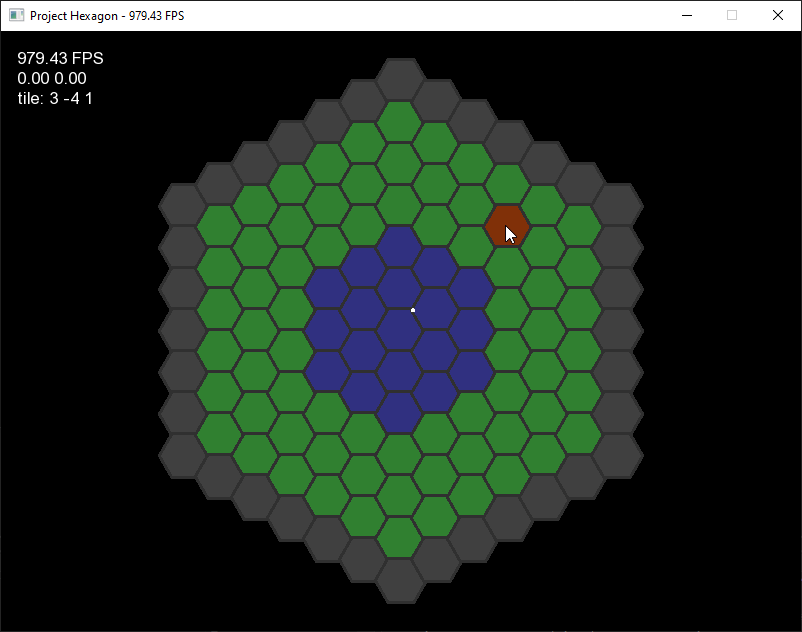
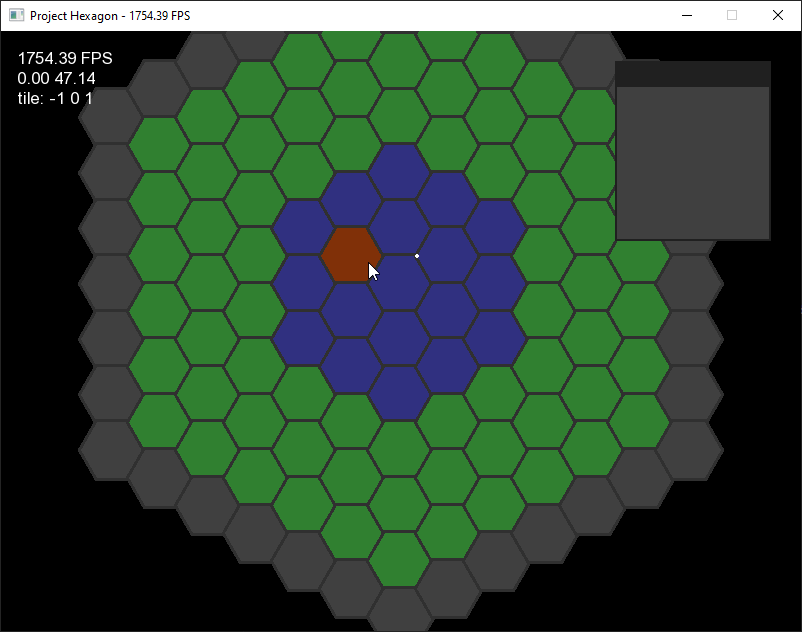
added palette

diff --git a/Project-Hexagon/palette.hpp b/Project-Hexagon/palette.hpp
@@ -1,0 +1,108 @@
+#ifndef palette_hpp
+#define palette_hpp
+
+enum class ButtonState { Idle, Hover, Pressed };
+
+
+class Palette : public ElementGUI {
+public:
+	sf::Vector2f bar_size;
+	sf::Vector2f size;
+	sf::Vector2f position;
+
+	sf::RectangleShape bar_rect;	// top bar rect
+	sf::RectangleShape rect;		// bottom big rect
+
+	short margin = 8;
+
+	sf::Vector2f offset;
+	bool is_moved;
+
+
+	Palette() : ElementGUI() {
+
+		sf::Vector2i tiles(2, 2);
+
+		bar_size = sf::Vector2f(tiles.x * 64 + (tiles.x + 1) * margin, 24);
+		size = sf::Vector2f(tiles.x * 64 + (tiles.x + 1) * margin, tiles.y * 64 + (tiles.y + 1) * margin);
+
+		bar_rect = sf::RectangleShape(bar_size);
+		bar_rect.setFillColor(sf::Color(32, 32, 32));
+		bar_rect.setOutlineThickness(2.0f);
+		bar_rect.setOutlineColor(sf::Color(32, 32, 32));
+
+		rect = sf::RectangleShape(size);
+		rect.setFillColor(sf::Color(64, 64, 64));
+		rect.setOutlineThickness(2.0f);
+		rect.setOutlineColor(sf::Color(32, 32, 32));
+
+		is_moved = false;
+
+		setPosition(sf::Vector2f(cam->view.getSize().x / 2 - size.x - 32, -cam->view.getSize().y / 2 + 32));
+	}
+
+
+	~Palette() {}
+
+	void setPosition(sf::Vector2f position) {
+		this->position = position;
+
+		bar_rect.setPosition(this->position + cam->position);
+		rect.setPosition(this->position + cam->position + sf::Vector2f(0, bar_size.y));
+
+	}
+
+	void cursorHover() {
+		if (bar_rect.getGlobalBounds().contains(worldMousePosition)) {
+			ElementGUI_hovered = this;
+			return;
+		}
+
+		if (rect.getGlobalBounds().contains(worldMousePosition)) {
+			ElementGUI_hovered = this;
+		}
+
+	}
+
+	void handleEvent(sf::Event& event)  {
+		
+		if (event.type == sf::Event::MouseButtonPressed && event.mouseButton.button == sf::Mouse::Left) {
+
+			std::cout << worldMousePosition.x << " " << worldMousePosition.y << "\n";
+			
+			// teraz działa
+			if (bar_rect.getGlobalBounds().contains(worldMousePosition)) {
+				is_moved = true;
+				offset = worldMousePosition - cam->position - position;
+				ElementGUI_pressed = this;
+			}
+			
+			
+		}
+
+		if (event.type == sf::Event::MouseButtonReleased && (event.mouseButton.button == sf::Mouse::Left || event.mouseButton.button == sf::Mouse::Right)) {
+			is_moved = false;
+		}
+
+	}
+
+	void update() {
+		if (is_moved)
+			setPosition(worldMousePosition - cam->position - offset);
+		else
+			setPosition(position);
+
+	}
+
+	void draw() {
+
+		window->draw(bar_rect);
+		window->draw(rect);
+		
+	}
+	
+};
+
+Palette* palette = nullptr;
+
+#endif // !palette_hpp

diff --git a/Project-Hexagon/main.cpp b/Project-Hexagon/main.cpp
@@ -2,7 +2,6 @@
 #include <iostream>
 
 #include <sstream>
-#include <windows.h>
 #include <vector>
 #include <algorithm>
 #include <numeric>
@@ -10,6 +9,7 @@
 #include <string>
 #include <iomanip>
 #include <unordered_set>
+#include <functional>
 #include <SFML/Graphics.hpp>
 
 #include "window.hpp"
@@ -17,7 +17,10 @@
 #include "camera.hpp"
 #include "mouse.hpp"
 #include "font.hpp"
+#include "elementGUI.hpp"
+#include "palette.hpp"
 #include "map.hpp"
+
 
 
 int main() {
@@ -28,6 +31,7 @@ int main() {
 	load_fonts();
 
 	Map* mapa = new Map();
+	palette = new Palette();
 
 	sf::Text fps_counter_text("0", basic_font, 17);
 	fps_counter_text.setPosition(cam->position - cam->view.getSize()/2.0f + sf::Vector2f(16,16));
@@ -75,11 +79,14 @@ int main() {
 		mousePosition = sf::Mouse::getPosition(*window);
 		worldMousePosition = window->mapPixelToCoords(mousePosition);
 
+		palette->update();
 		// update GUI elements
 		// ..
 		// ..
 		
 		// cursor hovering
+		ElementGUI_hovered = nullptr;
+		palette->cursorHover();
 		mapa->cursorHover();
 
 		float FPS = 1.0f / FPSClock.restart().asSeconds();
@@ -96,6 +103,7 @@ int main() {
 
 		static int i = 0;
 
+
 		// handle events
 		sf::Event event;
 		while (window->pollEvent(event)) {
@@ -106,7 +114,22 @@ int main() {
 				i += 1;
 				i %= 6;
 			}
-				
+
+			if (event.type == sf::Event::MouseButtonPressed && event.mouseButton.button == sf::Mouse::Left) {
+				palette->handleEvent(event);
+			}
+
+			if (event.type == sf::Event::MouseButtonReleased && event.mouseButton.button == sf::Mouse::Left) {
+				palette->handleEvent(event);
+				ElementGUI_pressed = nullptr;
+			}
+
+			if (event.type == sf::Event::MouseMoved) {
+				palette->handleEvent(event);
+
+			}
+
+			
 		}
 
 		// update
@@ -134,6 +157,7 @@ int main() {
 		window->clear();
 		mapa->draw();
 		window->draw(c);
+		palette->draw();
 		window->draw(fps_counter_text);
 		window->draw(cam_position_text);
 		window->draw(tile_coords_text);

diff --git a/Project-Hexagon/map.hpp b/Project-Hexagon/map.hpp
@@ -3,7 +3,7 @@
 
 #define M_PI 3.14159265358979323846 /* pi */
 
-float tile_radius = 24;
+float tile_radius = 32;
 
 std::vector<sf::Vector3i> hex_neighbours = {
 	sf::Vector3i(0, -1, +1),
@@ -69,7 +69,6 @@ public:
 			sf::Vector2f v2 = hexagon.getPoint((i + 1) % 6);
 
 			if (isPointInTriangle(vc, v1, v2, worldMousePosition)) {
-				hexagon.setFillColor(sf::Color(128, 48, 8));
 				return true;
 			}
 		}
@@ -87,11 +86,12 @@ public:
 class Map {
 public:
 	std::vector<Tile*> tiles;
-	Tile* selected_tile;
+	Tile* selected_tile = nullptr;
 
 	Map() {
 		create(6);
 		//create(0,0,2,2);
+
 	}
 
 	Tile* getTile(int q, int r, int s) {
@@ -187,8 +187,8 @@ public:
 
 	void create(int n) {
 		for (int q = -n; q <= n; q++) {
-			int r1 = max(-n, -q - n);
-			int r2 = min(n, -q + n);
+			int r1 = std::max(-n, -q - n);
+			int r2 = std::min(n, -q + n);
 
 			for (int r = r1; r <= r2; r++) {
 				tiles.push_back(new Tile(q, r));
@@ -214,12 +214,23 @@ public:
 	}
 
 	void cursorHover() {
+		if (selected_tile != nullptr)
+			selected_tile->hexagon.setFillColor(selected_tile->color);
 
 		selected_tile = nullptr;
 
-		for (auto& tile : tiles) {
-			if (tile->cursorHover())
-				selected_tile = tile;
+		if (ElementGUI_hovered == nullptr && ElementGUI_pressed == nullptr) {
+			for (auto& tile : tiles) {
+				if (tile->cursorHover()) {
+					selected_tile = tile;
+				}
+					
+				
+			}
+
+			if(selected_tile != nullptr)
+				selected_tile->hexagon.setFillColor(sf::Color(128, 48, 8));
+
 		}
 	}
 

diff --git a/Project-Hexagon/elementGUI.hpp b/Project-Hexagon/elementGUI.hpp
@@ -1,0 +1,19 @@
+#ifndef elementGUI_hpp
+#define elementGUI_hpp
+
+class ElementGUI {
+public:
+
+	ElementGUI() { }
+	~ElementGUI() { }
+
+	void cursorHover();
+	void handleEvent(sf::Event& event);
+	void update();
+	void draw();
+};
+
+ElementGUI* ElementGUI_hovered = nullptr;
+ElementGUI* ElementGUI_pressed = nullptr;
+
+#endif

diff --git a/Project-Hexagon/camera.hpp b/Project-Hexagon/camera.hpp
@@ -5,7 +5,6 @@ class Camera {
 public:
 	sf::Vector2f position;
 	sf::View view;
-	float zoom;
 
 	Camera() {
 		position = sf::Vector2f(0, 0);
